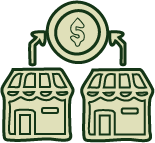
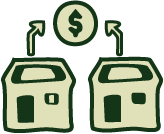
the solution visual changes

diff --git a/src/components/thesolution/styles.module.css b/src/components/thesolution/styles.module.css
@@ -44,7 +44,7 @@
     font-family: 'NeuroMedium';
     text-align: start;
     font-size: 24px;
-    text-decoration: underline var(--vasto-sand);
+    text-decoration: underline 3px var(--vasto-sand);
     line-height: 32px;
 }
 
